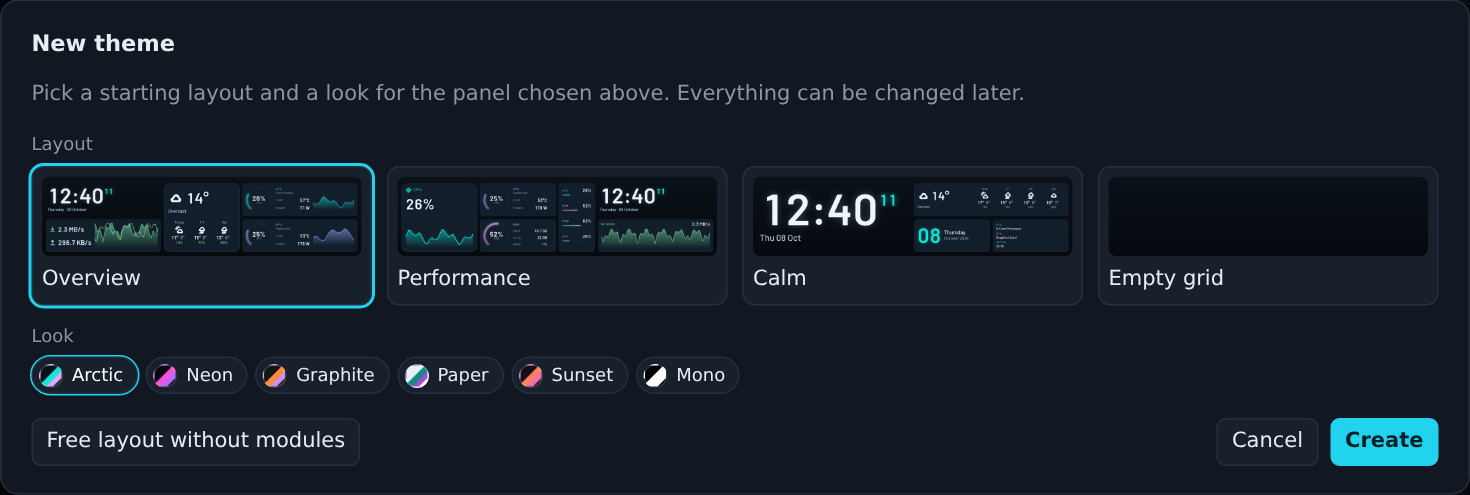
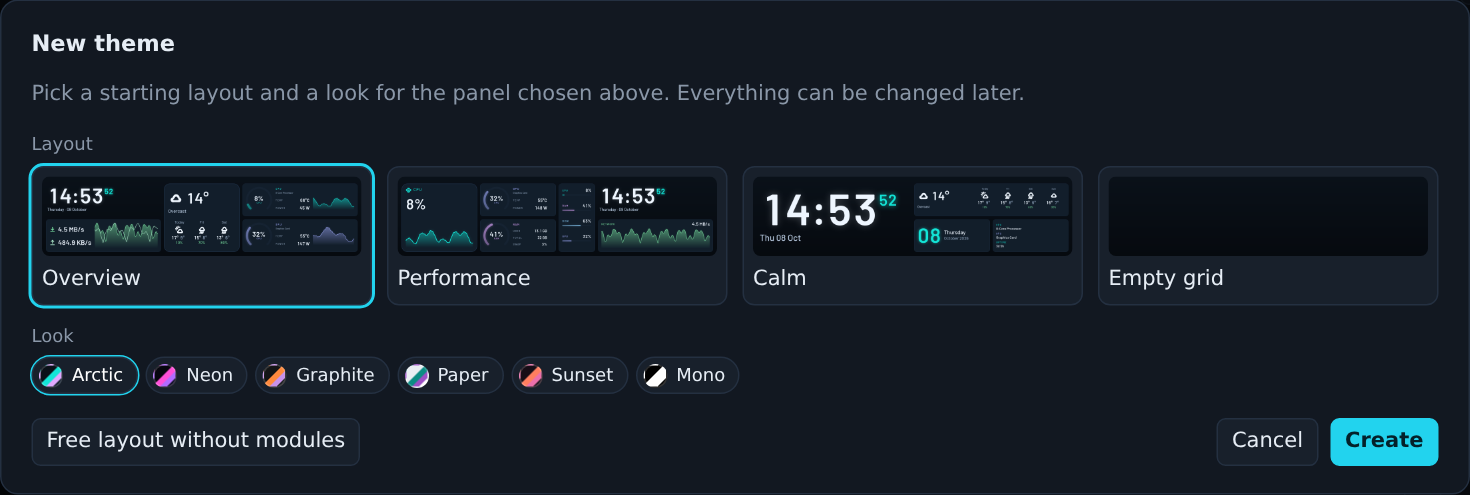
Show the 24 modules on the GitHub page and the website
A catalog of every module, the newer ones on five panels in five looks,
fresh editor pictures with the longer library, and the README and website
texts for the new modules and sources. Small sun modules give their times
the whole width.

Claude-Session: https://claude.ai/code/session_01GA9YKZ19vZbze1VvMQoFUn

diff --git a/site/index.html b/site/index.html
@@ -126,6 +126,7 @@
     <a class="brand" href="#top"><img src="images/icon.png" alt="">Libre Panel</a>
     <nav>
       <a class="hide-sm" href="#build">Build</a>
+      <a class="hide-sm" href="#modules">Modules</a>
       <a class="hide-sm" href="#themes">Themes</a>
       <a class="hide-sm" href="#editor">Editor</a>
       <a href="#panels">Panels</a>
@@ -178,8 +179,8 @@
         <img class="framed" src="images/editor-new.png" width="1470" height="495" loading="lazy"
         alt="The New theme dialog with three starting layouts and six looks">
         <div class="step"><div class="n">2</div><div><h3>Drag modules onto the panel</h3>
-          <p>Clock, calendar, weather, rings, big numbers, history, bars, network, system
-            and titles. Free cells light up; drop a module on another to swap them.</p></div></div>
+          <p>Pick from 24 modules: hardware, clocks, weather, music, your calendar and
+            more. Free cells light up; drop a module on another to swap them.</p></div></div>
         <img class="framed" src="images/editor-drag.png" width="2400" height="1350" loading="lazy"
         alt="A History module dragged from the library onto two free cells">
         <div class="step"><div class="n">3</div><div><h3>Pull a corner</h3>
@@ -204,11 +205,38 @@
     </div>
   </section>
 
+  <section id="modules">
+    <div class="wrap">
+      <div class="kicker">24 modules</div>
+      <h2>From every core to your next appointment</h2>
+      <p class="intro">Each module shows more the larger it is, steps aside when its
+        readings are missing, and costs nothing while it is not on the panel.</p>
+      <img src="images/module-catalog.png" width="2072" height="2210" loading="lazy"
+        alt="Every module: ring, big number, history, bars, temperatures, CPU cores, drives, processes, network, network details, battery, game FPS, time, calendar, analog clock, world clock, countdown, sun and moon, weather, music, agenda, dashboard, picture, system and title">
+      <div class="grid" style="margin-top: 26px">
+        <div class="card"><h3><span class="dot" style="background: var(--accent)"></span>Hardware</h3>
+          <p>Every temperature and fan, the load of every core, every drive with its free
+            space, the busiest programs, IP address and ping, the battery, and your
+            game's frame rate with its 1% lows (PresentMon, Windows).</p></div>
+        <div class="card"><h3><span class="dot" style="background: var(--warn)"></span>Time and the sky</h3>
+          <p>Digital and analog clocks for any time zone, a world clock, countdowns to
+            any day, sunrise, sunset and the moon's phase, computed offline for your
+            place.</p></div>
+        <div class="card"><h3><span class="dot" style="background: var(--mem)"></span>Your things</h3>
+          <p>What is playing with its cover, the next events of your calendars, Home
+            Assistant and MQTT values on a dashboard, and your pictures as a
+            slideshow.</p></div>
+      </div>
+      <img src="images/module-layouts-more.png" width="2056" height="781" loading="lazy" style="margin-top: 34px"
+        alt="An everyday bar with music, world clock, agenda, sun and moon and a countdown; a hardware bar with cores, temperatures, game FPS, processes and drives; three smaller panels">
+    </div>
+  </section>
+
   <section id="themes">
     <div class="wrap">
       <div class="kicker">Built in</div>
       <h2>Seven themes, from 0.96" to 9.2"</h2>
-      <p class="intro">Glow, soft gradients, smooth history graphs, 21 line icons
+      <p class="intro">Glow, soft gradients, smooth history graphs, 35 line icons
         with live weather symbols, and values that glide instead of jumping. Every
         theme moves to any other panel size in one click.</p>
       <img src="images/gallery.png" width="2000" height="1062" loading="lazy"
@@ -245,7 +273,7 @@
         <div class="card"><h3><span class="dot" style="background: var(--accent)"></span>50 fps video mode</h3>
           <p>On TURZX USB panels, frames go through the panel's own video decoder: graphs scroll and numbers glide.</p></div>
         <div class="card"><h3><span class="dot" style="background: var(--gpu)"></span>Sensors</h3>
-          <p>CPU, RAM, disk, network, temperatures and fans everywhere; on Windows also GPU and power via LibreHardwareMonitor.</p></div>
+          <p>Every core, drive, temperature and fan, network and battery everywhere; on Windows also GPU and power via LibreHardwareMonitor. Calendars, Home Assistant and MQTT too.</p></div>
         <div class="card"><h3><span class="dot" style="background: var(--net)"></span>Weather</h3>
           <p>From Open-Meteo for your location. Off by default, no API key.</p></div>
         <div class="card"><h3><span class="dot" style="background: var(--mem)"></span>Runs in the tray</h3>

diff --git a/tools/readme_images.py b/tools/readme_images.py
@@ -44,6 +44,13 @@ def snapshot():
     }
     for key, (label, unit, value) in weather.items():
         snap.readings[key] = Reading(key, value, unit, label)
+    # a moon worth looking at (the day of these pictures has a new one)
+    moon = {
+        "moon.phase": (0.36, "", "Moon phase"), "moon.illumination": (79.0, "%", "Moon lit"),
+        "moon.name": ("Waxing gibbous", "", "Moon"), "moon.full_in": (4.1, "d", "Full moon in"),
+    }  # fmt: skip
+    for key, (value, unit, label) in moon.items():
+        snap.readings[key] = Reading(key, value, unit, label)
     return snap
 
 
@@ -444,6 +451,117 @@ def module_layouts() -> Image.Image:
     return img.convert("RGB")
 
 
+CATALOG = [  # (section, [(kind, options, cols, rows)])
+    ("Hardware", [
+        ("ring", {"source": "cpu"}, 2, 1), ("stat", {"source": "gpu"}, 2, 1),
+        ("graph", {"source": "net"}, 2, 1), ("bars", {}, 2, 1),
+        ("temps", {}, 2, 1), ("cores", {}, 2, 1), ("drives", {}, 2, 1),
+        ("processes", {}, 2, 1), ("network", {}, 2, 1), ("netinfo", {}, 2, 1),
+        ("battery", {}, 2, 1), ("game", {}, 2, 1),
+    ]),
+    ("Time and the sky", [
+        ("clock", {}, 2, 1), ("date", {}, 2, 1), ("analog", {}, 2, 1),
+        ("world", {}, 2, 1), ("countdown", {"target": "12-24", "title": "Christmas"}, 2, 1),
+        ("sun", {}, 2, 1), ("weather", {}, 2, 1),
+    ]),
+    ("Your things", [
+        ("music", {}, 2, 1), ("agenda", {}, 2, 1), ("values", {}, 2, 1),
+        ("image", {}, 2, 1), ("system", {}, 2, 1), ("text", {"text": "Libre Panel"}, 2, 1),
+    ]),
+]  # fmt: skip
+
+
+def module_catalog() -> Image.Image:
+    """Every module, at two cells of a 9.2\" bar, named, in groups."""
+    from libre_panel.theme.modules import kinds
+
+    names = {key: kind.name for key, kind in kinds().items()}
+    columns, gap, margin, head, caption = 4, 28, 44, 64, 44
+    tiles = []
+    for section, modules in CATALOG:
+        row = []
+        for kind, options, cols, rows in modules:
+            module = {"module": kind, "cols": cols, "rows": rows, **options}
+            frame, boxes = module_frame("turing-9.2-usb", "arctic", [module])
+            x, y, w, h = boxes["m0"]
+            row.append((names[kind], frame.crop((x - 10, y - 10, x + w + 10, y + h + 10))))
+        tiles.append((section, row))
+    tile_w, tile_h = tiles[0][1][0][1].size
+    height = margin
+    for _section, row in tiles:
+        lines = -(-len(row) // columns)
+        height += head + lines * (tile_h + caption) + (lines - 1) * gap // 2 + gap
+    width = 2 * margin + columns * tile_w + (columns - 1) * gap
+    img = background(width, height, glow=(0.5, 0.0))
+    draw = ImageDraw.Draw(img)
+    title, label = font("Barlow-SemiBold", 36), font("Barlow-Medium", 26)
+    y = margin
+    for section, row in tiles:
+        draw.text((margin, y), section, font=title, fill=ACCENT)
+        y += head
+        for i, (name, crop) in enumerate(row):
+            col, line = i % columns, i // columns
+            x = margin + col * (tile_w + gap)
+            ty = y + line * (tile_h + caption + gap // 2)
+            img.paste(crop, (x, ty))
+            draw.text((x + 12, ty + tile_h + 6), name, font=label, fill=TX_1)
+        lines = -(-len(row) // columns)
+        y += lines * (tile_h + caption) + (lines - 1) * gap // 2 + gap
+    return img
+
+
+def _m(kind: str, col: int, row: int, cols: int = 1, rows: int = 1, **options) -> dict:
+    return {"module": kind, "col": col, "row": row, "cols": cols, "rows": rows, **options}
+
+
+def new_module_layouts() -> Image.Image:
+    """The newer modules on panels: an everyday bar, a hardware bar, two small panels."""
+    everyday = [_m("music", 0, 0, 3), _m("world", 0, 1, 3), _m("agenda", 3, 0, 2, 2),
+                _m("sun", 5, 0, 3), _m("countdown", 5, 1, 2, target="12-24", title="Christmas"),
+                _m("analog", 7, 1)]  # fmt: skip
+    hardware = [_m("cores", 0, 0, 3), _m("temps", 0, 1, 3), _m("game", 3, 0, 3),
+                _m("processes", 3, 1, 3), _m("drives", 6, 0, 2), _m("values", 6, 1, 2)]  # fmt: skip
+    bars = [
+        ("Everyday · Sunset", module_frame("turing-9.2-usb", "sunset", everyday)[0]),
+        ("Hardware · Neon", module_frame("turing-9.2-usb", "neon", hardware)[0]),
+    ]
+    small_specs = [
+        ('3.5" · Paper', "turing-3.5", "paper",
+         [_m("music", 0, 0, 2), _m("analog", 2, 0), _m("agenda", 0, 1, 2), _m("battery", 2, 1)]),
+        ('5" · Graphite', "turing-5", "graphite",
+         [_m("game", 0, 0, 2), _m("temps", 2, 0, 1, 2), _m("cores", 0, 1, 2)]),
+        ('3.5" portrait · Arctic', "turing-3.5", "arctic",
+         [_m("sun", 0, 0, 2), _m("world", 0, 1, 2), _m("netinfo", 0, 2, 2)]),
+    ]  # fmt: skip
+    small = []
+    for name, model, look, modules in small_specs:
+        side = "portrait" if "portrait" in name else "landscape"
+        small.append((name, module_frame(model, look, modules, side)[0]))
+    border, margin, gap, caption = 12, 44, 40, 56
+    label = font("Barlow-SemiBold", 28)
+    m = shadow_margin(border)
+    bar_w, hh = 940, 300
+    width = 2 * margin + 2 * (bar_w + 2 * border) + gap
+    row1 = bar_w // 4 + 2 * border
+    height = margin + row1 + caption + gap // 2 + hh + 2 * border + caption + margin // 2
+    img = background(width, height, glow=(0.5, 0.0)).convert("RGBA")
+    draw = ImageDraw.Draw(img)
+    for i, (name, frame) in enumerate(bars):
+        x = margin + i * (bar_w + 2 * border + gap)
+        dev = device(frame.resize((bar_w, bar_w // 4), Image.LANCZOS), border)
+        img.alpha_composite(dev, (x - m, margin - m))
+        draw.text((x + 4, margin + row1 + 10), name, font=label, fill=TX_1)
+    sized = [(n, f.resize((round(f.width * hh / f.height), hh), Image.LANCZOS)) for n, f in small]
+    total = sum(f.width + 2 * border for _, f in sized)
+    spacing = (width - 2 * margin - total) / (len(sized) - 1)
+    x, y = margin, margin + row1 + caption + gap // 2
+    for name, frame in sized:
+        img.alpha_composite(device(frame, border), (round(x) - m, y - m))
+        draw.text((x + 4, y + hh + 2 * border + 10), name, font=label, fill=TX_1)
+        x += frame.width + 2 * border + spacing
+    return img.convert("RGB")
+
+
 def editor_shots(out: Path) -> None:
     """The editor: a new theme from a layout, dragging a module, resizing one."""
     from playwright.sync_api import sync_playwright
@@ -529,6 +647,8 @@ def main() -> None:
     weather_sizes().save(out / "weather-sizes.png", optimize=True)
     looks().save(out / "looks.png", optimize=True)
     module_layouts().save(out / "module-layouts.png", optimize=True)
+    module_catalog().save(out / "module-catalog.png", optimize=True)
+    new_module_layouts().save(out / "module-layouts-more.png", optimize=True)
     try:
         editor_shots(out)
     except ImportError:

diff --git a/src/libre_panel/theme/modules.py b/src/libre_panel/theme/modules.py
@@ -1032,6 +1032,10 @@ def _sun(b: _Build, x: float, y: float, w: float, h: float, details: bool = Fals
     # the times under the arc's ends (not further out than a little)
     left = max(x, cx - d / 2 - mark * 0.6)
     right = min(x + w, cx + d / 2 + mark * 0.6)
+    needed = 2 * (mark * 1.2 + size * 2.7) + b.ts
+    if right - left < needed:  # a small arc: the times use the whole width
+        left, right = x, x + w
+        size = min(size, max(7.0, (w - b.ts - 2 * mark * 1.2) / 5.4))
     half = (right - left) / 2
     b.icon("rise-icon", "sunrise", left, cap + CAP * size / 2 - mark / 2, mark, b.c("text3"))
     b.value("rise", "sun.rise", "{value}", left + mark * 1.2, cap, size, width=half - mark * 1.2)

diff --git a/README.md b/README.md
@@ -34,6 +34,9 @@ No account, no cloud, no vendor app.
 - **Fits your machine without editing.** The names your own CPU and GPU
   report, the weather for the place in *your* config, dates in English or
   German, and sections that step aside where a sensor is missing.
+- **24 modules.** Hardware down to every core, drive, fan and game frame,
+  clocks for any time zone, sunrise and the moon, what is playing, your
+  calendar, Home Assistant and MQTT values, a slideshow.
 - **Snap it together.** Drag modules onto your panel's grid; pull a corner
   and a module shows more. Six looks restyle everything in one click, and a
   free editor is there for every pixel.
@@ -60,9 +63,9 @@ panel you chose, in any of six looks.
 
 <p align="center"><img src="docs/images/editor-drag.png" alt="A History module is dragged from the library onto two free cells, which light up" width="100%"></p>
 
-**2. Drag modules onto the panel.** Clock, calendar, weather, rings, big
-numbers, history graphs, bars, network, system and titles. Free cells light
-up; drop a module on another one to swap them.
+**2. Drag modules onto the panel.** Pick from [24 modules](#24-modules):
+hardware, clocks, weather, music, calendar and more. Free cells light up;
+drop a module on another one to swap them.
 
 <p align="center"><img src="docs/images/module-sizes.png" alt="A CPU ring module at 1x1, 2x1, 3x1, 2x2 and 4x2 cells, showing more the larger it is" width="100%"></p>
 
@@ -86,6 +89,36 @@ and fonts of every module.
 **On every panel.** The grid follows the panel (8 × 2 cells on a 9.2" bar,
 3 × 2 on a 3.5" panel) and keeps clear of edges the bezel hides; switch
 the panel and the modules move along.
+
+## 24 modules
+
+<p align="center"><img src="docs/images/module-catalog.png" alt="Every module at two cells: ring, big number, history, bars, temperatures, CPU cores, drives, processes, network, network details, battery, game FPS; time, calendar, analog clock, world clock, countdown, sun and moon, weather; music, agenda, dashboard, picture, system, title" width="100%"></p>
+
+- **Hardware.** Rings, big numbers, history graphs and bars; every
+  temperature and fan, CPU and GPU first; the load of every core; every
+  drive with its free space; the busiest programs; IP address, ping and
+  today's traffic; the battery; the frame rate of your game, with its 1%
+  lows (through Intel's PresentMon on Windows).
+- **Time and the sky.** Digital and analog clocks, also for other time
+  zones and as a world clock; a calendar sheet with the month; a countdown
+  to any day (every year with "12-24"); sunrise, sunset and the moon's
+  phase, computed for your place without the internet; the weather with
+  its forecast.
+- **Your things.** What is playing, with the cover (Windows media controls,
+  Spotify, browsers, MPRIS players on Linux, Music on macOS); the next
+  events of your calendars (Google, Outlook, iCloud, Nextcloud, any .ics);
+  a dashboard of any readings, Home Assistant and MQTT included; pictures
+  from the theme folder as a slideshow.
+
+Like the others, each new module shows more the larger it is, steps aside
+when its readings are missing ("Nothing playing", "No battery"), and costs
+nothing while no theme shows it: processes, ping, music and the game's
+frame rate are only read while they are on the panel.
+
+<p align="center"><img src="docs/images/module-layouts-more.png" alt="An everyday bar in Sunset with music, world clock, agenda, sun and moon, countdown and an analog clock; a hardware bar in Neon with CPU cores, temperatures, game FPS, processes, drives and a dashboard; a 3.5 inch panel in Paper, a 5 inch panel in Graphite and a 3.5 inch portrait panel in Arctic" width="100%"></p>
+
+Calendars, Home Assistant, MQTT and PresentMon are set up in the
+[configuration](docs/CONFIGURATION.md#more-sensor-sources).
 
 ## Themes
 
@@ -125,17 +158,23 @@ Made one you like? Share it in
 
 ## Features
 
-- **Modules**: ten building blocks that lay themselves out for their size,
+- **Modules**: 24 building blocks that lay themselves out for their size,
   six looks, starting layouts for every panel size.
 - **Widgets**: text, sensor values, bars (also segmented), ring gauges,
-  smooth history graphs, clock and date, images, weather, 21 line icons (with
+  smooth history graphs, lists of readings (`temp.*`) as rows, bars,
+  columns or tiles, clocks (digital and analog, any time zone), countdowns,
+  the month, the moon, images and slideshows, weather, 35 line icons (with
   live weather symbols), cards with frosted glass; glow, shadows, gradients,
   colour rules (e.g. turn red above 85 °C) and values that glide.
 - **Video mode** for TURZX USB panels: up to 50 frames per second through
   the panel's own video decoder (needs ffmpeg).
-- **Sensors**: CPU, RAM, disk, network, temperatures and fans via `psutil`;
-  on Windows also GPU, power and more through
+- **Sensors**: CPU (every core), RAM, every drive, network, temperatures,
+  fans, battery and the busiest programs via `psutil`; on Windows also GPU,
+  power, every temperature and fan through
   [LibreHardwareMonitor](https://github.com/LibreHardwareMonitor/LibreHardwareMonitor).
+- **From your life**: what is playing, calendars (.ics), Home Assistant,
+  MQTT, sunrise, sunset and the moon, and the frame rate of games
+  ([PresentMon](https://github.com/GameTechDev/PresentMon), Windows).
 - **Weather** from [Open-Meteo](https://open-meteo.com) for your location:
   off by default, no API key.
 - **Nothing hard-coded**: location, units, sensors and panel live in one
